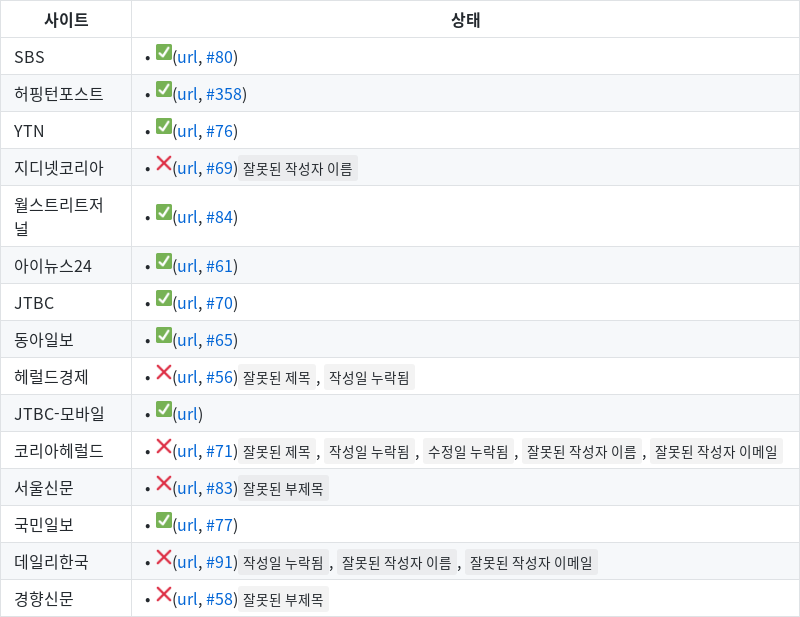
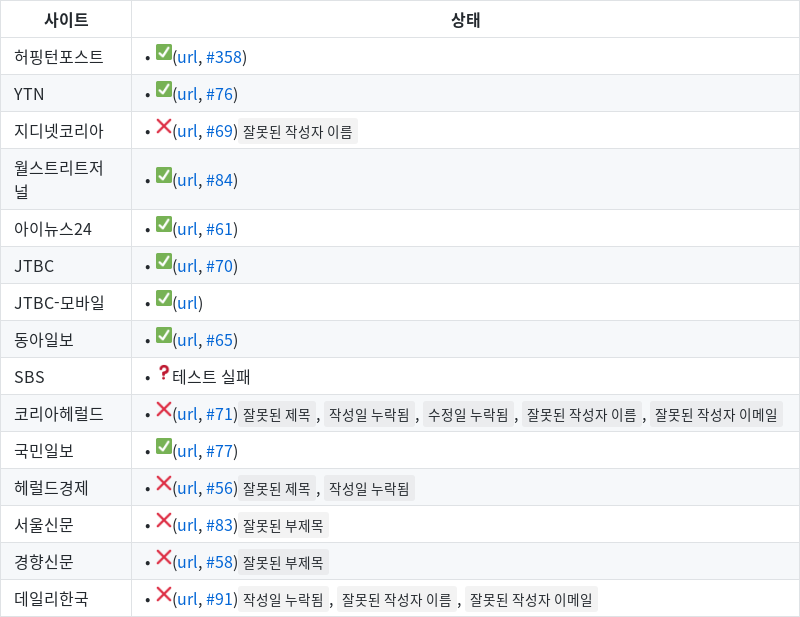
Thu Oct  3 00:17:11 UTC 2019

diff --git a/health-check.md b/health-check.md
@@ -1,17 +1,17 @@
 | 사이트 | 상태 |
 |------|-------|
-| SBS | • ✅([url](https://news.sbs.co.kr/news/endPage.do?news_id=N1002697236), [#80](https://github.com/disjukr/just-news/issues/#80)) |
 | 허핑턴포스트 | • ✅([url](https://www.huffingtonpost.kr/entry/story_kr_5d36a558e4b004b6adb5029c?9e4), [#358](https://github.com/disjukr/just-news/issues/#358)) |
 | YTN | • ✅([url](https://www.ytn.co.kr/_ln/0103_201411190800481989), [#76](https://github.com/disjukr/just-news/issues/#76)) |
 | 지디넷코리아 | • ❌([url](http://www.zdnet.co.kr/view/?no=20141104074223), [#69](https://github.com/disjukr/just-news/issues/#69))`잘못된 작성자 이름` |
 | 월스트리트저널 | • ✅([url](https://realtime.wsj.com/korea/2014/10/13/%EB%B0%95%EC%9B%90%EC%88%9C-%EC%84%9C%EC%9A%B8%EC%8B%9C%EC%9E%A5-%EB%AF%B8%EA%B5%AD-%EC%96%B8%EB%A1%A0%EC%97%90-%EB%8F%99%EC%84%B1%EA%B2%B0%ED%98%BC-%EC%A7%80%EC%A7%80-%EB%B0%9C%EC%96%B8/), [#84](https://github.com/disjukr/just-news/issues/#84)) |
 | 아이뉴스24 | • ✅([url](http://www.inews24.com/view/860573), [#61](https://github.com/disjukr/just-news/issues/#61)) |
 | JTBC | • ✅([url](http://news.jtbc.joins.com/article/article.aspx?news_id=NB10639468), [#70](https://github.com/disjukr/just-news/issues/#70)) |
-| 동아일보 | • ✅([url](http://news.donga.com/3/03/20141107/67723014/1), [#65](https://github.com/disjukr/just-news/issues/#65)) |
-| 헤럴드경제 | • ❌([url](http://news.heraldcorp.com/view.php?ud=20141023000202&md=20141023091209_BK), [#56](https://github.com/disjukr/just-news/issues/#56))`잘못된 제목`, `작성일 누락됨` |
 | JTBC-모바일 | • ✅([url](http://mnews.jtbc.joins.com/News/Article.aspx?news_id=NB11866214)) |
+| 동아일보 | • ✅([url](http://news.donga.com/3/03/20141107/67723014/1), [#65](https://github.com/disjukr/just-news/issues/#65)) |
+| SBS | • ❓테스트 실패 |
 | 코리아헤럴드 | • ❌([url](http://khnews.kheraldm.com/view.php?ud=20141111001137&md=20141111180830_BK&kr=1), [#71](https://github.com/disjukr/just-news/issues/#71))`잘못된 제목`, `작성일 누락됨`, `수정일 누락됨`, `잘못된 작성자 이름`, `잘못된 작성자 이메일` |
-| 서울신문 | • ❌([url](http://seoul.co.kr/news/newsView.php?id=20141204500025), [#83](https://github.com/disjukr/just-news/issues/#83))`잘못된 부제목` |
 | 국민일보 | • ✅([url](http://news.kmib.co.kr/article/view.asp?arcid=0008864720&code=61121111), [#77](https://github.com/disjukr/just-news/issues/#77)) |
-| 데일리한국 | • ❌([url](http://daily.hankooki.com/lpage/politics/201412/dh20141219103740137430.htm), [#91](https://github.com/disjukr/just-news/issues/#91))`작성일 누락됨`, `잘못된 작성자 이름`, `잘못된 작성자 이메일` |
+| 헤럴드경제 | • ❌([url](http://news.heraldcorp.com/view.php?ud=20141023000202&md=20141023091209_BK), [#56](https://github.com/disjukr/just-news/issues/#56))`잘못된 제목`, `작성일 누락됨` |
+| 서울신문 | • ❌([url](http://seoul.co.kr/news/newsView.php?id=20141204500025), [#83](https://github.com/disjukr/just-news/issues/#83))`잘못된 부제목` |
 | 경향신문 | • ❌([url](http://biz.khan.co.kr/khan_art_view.html?artid=201410311921301&code=920100&med=khan), [#58](https://github.com/disjukr/just-news/issues/#58))`잘못된 부제목` |
+| 데일리한국 | • ❌([url](http://daily.hankooki.com/lpage/politics/201412/dh20141219103740137430.htm), [#91](https://github.com/disjukr/just-news/issues/#91))`작성일 누락됨`, `잘못된 작성자 이름`, `잘못된 작성자 이메일` |
